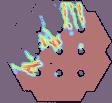
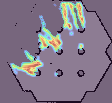
ajout robots sur carte

diff --git a/main.py b/main.py
@@ -3,9 +3,8 @@ import cv2
 import os
 from typing import List, Tuple
 
-
 class DetectionPointsInteretsUltraUltra:
-    """Détection ultra-optimisée des points d'intérêt + enregistrement de chaque étape."""
+    """Détection ultra-optimisée des points d'intérêt + visualisation avec robots et trajets."""
 
     def __init__(self, path: str, top_k: int = 50, dossier_debug: str = "debug"):
         self.top_k = top_k
@@ -15,40 +14,32 @@ class DetectionPointsInteretsUltraUltra:
         # Créer dossier debug
         os.makedirs(dossier_debug, exist_ok=True)
 
-        # Étape 1 : lecture
+        # Étapes principales
         self.img = self.lecture_image(path)
-
-        # Étape 2 : métriques robot
         self.metriques_physiques()
-
-        # Étape 3 : mapping valeurs
         img_travail = self.transformer_valeurs(self.img)
         self.save(img_travail, "02_image_transformee.png")
-
-        # Étape 4 : nettoyage
         img_nettoyee = self.suppression_pixels_inutilisables(img_travail)
-
-        # Étape 5 : lissage + normalisation finale
         self.heatmap_normalisee = self.lissage_normalisation(img_nettoyee)
         self.save(self.heatmap_normalisee, "07_heatmap_normalisee.png")
 
-
+        # Superposition heatmap
         self.enregistrer_heatmap_superposee()
 
-        # Étape 6 : top-K
+        # Top-K points d’intérêt
         self.points_interet = self.topk_points_interet(self.heatmap_normalisee, top_k=self.top_k)
 
+        # Heatmap overlay avec points
         self.enregistrer_heatmap_overlay_avec_points()
 
     # ---------- Utilitaires ----------
     def save(self, img, filename):
-        """Enregistre une image float32 en PNG avec conversion automatique."""
+        """Enregistre une image float32 en PNG."""
         out = img.copy()
         out[out <= self.valeur_pixel_supprime] = 0.0
         out = (out - out.min()) / (out.max() - out.min() + 1e-9)
         out8 = (out * 255).astype(np.uint8)
         cv2.imwrite(os.path.join(self.dossier_debug, filename), out8)
-
 
     # ---------- Étape 1 ----------
     def lecture_image(self, path: str) -> np.ndarray:
@@ -73,7 +64,6 @@ class DetectionPointsInteretsUltraUltra:
         self.pixel_occupe = 0
         self.pixel_connu = 254
         self.pixel_inconnu = 205
-
         img_f[img == self.pixel_occupe] = -100
         img_f[img == self.pixel_connu] = 0
         img_f[img == self.pixel_inconnu] = 100
@@ -81,16 +71,16 @@ class DetectionPointsInteretsUltraUltra:
 
     # ---------- Étape 4 ----------
     def suppression_pixels_inutilisables(self, img: np.ndarray) -> np.ndarray:
-        img_out = img
+        img_out = img.copy()
 
-        # 4.1 suppression autour obstacles
+        # Supprimer autour des obstacles
         kernel = self.matrice_robot / np.prod(self.matrice_robot.shape)
         mask_occ = (img_out == -100).astype(np.float32)
         zones = cv2.filter2D(mask_occ, -1, kernel, borderType=cv2.BORDER_CONSTANT)
         img_out[zones != 0] = self.valeur_pixel_supprime
         self.save(img_out, "03_suppression_autour_obstacles.png")
 
-        # 4.2 suppression inconnus isolés
+        # Filtrage des inconnus isolés
         mask_known = (img_out == 0).astype(np.float32)
         filtre_voisins = np.array([
             [0.5,0.5,0.5,0.5,0.5],
@@ -99,20 +89,18 @@ class DetectionPointsInteretsUltraUltra:
             [0.5,1.0,1.0,1.0,0.5],
             [0.5,0.5,0.5,0.5,0.5]
         ], dtype=np.float32)
-
         voisins = cv2.filter2D(mask_known, -1, filtre_voisins, borderType=cv2.BORDER_CONSTANT)
         mask_valid = voisins > 1.0
         img_out[~mask_valid] = self.valeur_pixel_supprime
         img_out[mask_valid] *= voisins[mask_valid]
-
         self.save(img_out, "04_inconnus_filtrage_voisinage.png")
         return img_out
 
     # ---------- Étape 5 ----------
     def lissage_normalisation(self, img: np.ndarray) -> np.ndarray:
         mask_suppr = img <= self.valeur_pixel_supprime
-
         img2 = img.copy()
+
         # 1er passage
         tmp = img2.copy()
         tmp[mask_suppr] = 0
@@ -127,139 +115,92 @@ class DetectionPointsInteretsUltraUltra:
         img2[mask_suppr] = self.valeur_pixel_supprime
         self.save(img2, "06_lissage_pass2.png")
 
-        # normalisation finale
+        # Normalisation finale
         valid = img2[~mask_suppr]
         if valid.size == 0:
             return np.zeros_like(img2)
         mn, mx = valid.min(), valid.max()
-        if mx == mn:
-            norm = np.zeros_like(img2)
-        else:
-            norm = (img2 - mn) / (mx - mn)
-
+        norm = np.zeros_like(img2) if mx == mn else (img2 - mn) / (mx - mn)
         norm[mask_suppr] = self.valeur_pixel_supprime
         return norm
 
     # ---------- Étape 6 ----------
     def topk_points_interet(self, heatmap: np.ndarray, top_k: int) -> List[Tuple[int,int,float]]:
-        """
-        Retourne 1 point d'intérêt par zone :
-        - segmentation connected components
-        - pour chaque composante, on prend le pixel de score maximum
-        - on trie les points par score
-        - on applique top_k facultatif
-        """
-        # Mask des zones valides
+        """Retourne 1 point par zone connectée, tri par score."""
         mask = heatmap > 0
-
-        # 1⃣ Segmentation en zones connectées
         num_labels, labels = cv2.connectedComponents(mask.astype(np.uint8))
-
         points = []
 
-        # 2⃣ Pour chaque zone (sauf 0 : fond)
         for lab in range(1, num_labels):
             ys, xs = np.where(labels == lab)
             if len(xs) == 0:
                 continue
-
-            # Scores de la zone
             scores = heatmap[ys, xs]
-
-            # Best pixel of the zone
             idx_best = np.argmax(scores)
-            best_x = xs[idx_best]
-            best_y = ys[idx_best]
-            best_score = scores[idx_best]
+            points.append((xs[idx_best], ys[idx_best], float(scores[idx_best])))
 
-            points.append((best_x, best_y, float(best_score)))
-
-        # 3⃣ Tri décroissant
         points.sort(key=lambda p: -p[2])
+        return points[:top_k] if len(points) > top_k else points
 
-        # 4⃣ Optionnel : top-K
-        if len(points) > top_k:
-            points = points[:top_k]
-
-        return points
-
-    
+    # ---------- Visualisation ----------
     def enregistrer_heatmap_superposee(self, alpha=0.55, colormap=cv2.COLORMAP_TURBO):
-
-        # ---- Charger l'image originale ----
-        img_orig = self.img
-
-        # Convertir en BGR pour superposition
-        img_orig_color = cv2.cvtColor(img_orig, cv2.COLOR_GRAY2BGR)
-
-        # ---- Préparer la heatmap ----
-        hm = self.heatmap_normalisee.copy()
-        hm[hm == 0.0] = 1
-        hm[hm == self.valeur_pixel_supprime] = 0.0  # pixels invalides à noir
-
-        # Convertir → 8 bits
-        hm8 = (hm * 255).clip(0, 255).astype(np.uint8)
-
-        # Appliquer la color map (BGR)
+        img_orig_color = cv2.cvtColor(self.img, cv2.COLOR_GRAY2BGR)
+        hm = np.clip(self.heatmap_normalisee, 0, 1)
+        hm8 = (hm*255).astype(np.uint8)
         hm_color = cv2.applyColorMap(hm8, colormap)
+        overlay = cv2.addWeighted(hm_color, alpha, img_orig_color, 1-alpha, 0)
+        cv2.imwrite(os.path.join(self.dossier_debug,"heatmap_overlay.png"), overlay)
+        print("[OK] Heatmap superposée enregistrée.")
 
-        # ---- Superposition ----
-        overlay = cv2.addWeighted(hm_color, alpha, img_orig_color, 1 - alpha, 0)
-        output = os.path.join(self.dossier_debug,"heatmap_overlay.png")
-        # ---- Sauvegarde ----
-        cv2.imwrite(output, overlay)
-        print(f"[OK] Heatmap superposée enregistrée : {output}")
-
-
-
-    def enregistrer_heatmap_overlay_avec_points(self,
-                                                alpha=0.55, colormap=cv2.COLORMAP_TURBO):
-        """
-        Version améliorée : heatmap colorisée + superposition sur l'image +
-        croix sur tous les points d'intérêt détectés.
-        """
-
-        output = "heatmap_overlay_points.png"
-
-        # ---- Charger l'image originale ----
-        img_orig = self.img
-        img_orig_color = cv2.cvtColor(img_orig, cv2.COLOR_GRAY2BGR)
-
-        # ---- Préparer la heatmap ----
-        hm = self.heatmap_normalisee.copy()
-        hm[hm == self.valeur_pixel_supprime] = 0.0
-        hm8 = (hm * 255).clip(0, 255).astype(np.uint8)
-
-        # ---- Colorisation ----
+    def enregistrer_heatmap_overlay_avec_points(self, alpha=0.55, colormap=cv2.COLORMAP_TURBO):
+        """Superposition heatmap + points d'intérêt."""
+        img_orig_color = cv2.cvtColor(self.img, cv2.COLOR_GRAY2BGR)
+        hm = np.clip(self.heatmap_normalisee, 0, 1)
+        hm8 = (hm*255).astype(np.uint8)
         hm_color = cv2.applyColorMap(hm8, colormap)
+        overlay = cv2.addWeighted(hm_color, alpha, img_orig_color, 1-alpha, 0)
 
-        # ---- Superposition ----
-        overlay = cv2.addWeighted(hm_color, alpha, img_orig_color, 1 - alpha, 0)
+        for (x, y, _) in self.points_interet:
+            cv2.drawMarker(overlay, (x, y), (255,255,255),
+                           markerType=cv2.MARKER_TILTED_CROSS, markerSize=8, thickness=2)
+            cv2.drawMarker(overlay, (x, y), (0,0,255),
+                           markerType=cv2.MARKER_TILTED_CROSS, markerSize=4, thickness=1)
 
-        # ---- Dessiner les points d'intérêt ----
-        for (x, y, score) in self.points_interet:
-            cv2.drawMarker(
-                overlay,
-                (x, y),
-                (0, 0, 0),                   # centre noir
-                markerType=cv2.MARKER_CROSS,
-                markerSize=12,
-                thickness=2,
-                line_type=cv2.LINE_AA
-            )
-            cv2.drawMarker(
-                overlay,
-                (x, y),
-                (0, 255, 0),                 # contour vert
-                markerType=cv2.MARKER_CROSS,
-                markerSize=8,
-                thickness=1,
-                line_type=cv2.LINE_AA
-            )
+        cv2.imwrite(os.path.join(self.dossier_debug,"heatmap_overlay_points.png"), overlay)
+        print("[OK] Overlay + points d'intérêt enregistrés.")
 
-        filepath = os.path.join(self.dossier_debug, output)
-        cv2.imwrite(filepath, overlay)
-        print(f"[OK] Overlay + points d'intérêt enregistrés : {filepath}")
+    def enregistrer_heatmap_overlay_points_robots(self, robots: List[Tuple[int,int]],
+                                                  targets: List[Tuple[int,int]],
+                                                  paths: List[List[Tuple[int,int]]],
+                                                  alpha=0.55, colormap=cv2.COLORMAP_TURBO):
+        """Heatmap + points d'intérêt + robots + trajets."""
+        img_orig_color = cv2.cvtColor(self.img, cv2.COLOR_GRAY2BGR)
+        hm = np.clip(self.heatmap_normalisee, 0, 1)
+        hm8 = (hm*255).astype(np.uint8)
+        hm_color = cv2.applyColorMap(hm8, colormap)
+        overlay = cv2.addWeighted(hm_color, alpha, img_orig_color, 1-alpha, 0)
+
+        # Points d'intérêt
+        for (x, y, _) in self.points_interet:
+            cv2.drawMarker(overlay, (x, y), (255,255,255),
+                           markerType=cv2.MARKER_TILTED_CROSS, markerSize=8, thickness=2)
+            cv2.drawMarker(overlay, (x, y), (0,0,255),
+                           markerType=cv2.MARKER_TILTED_CROSS, markerSize=4, thickness=1)
+
+        # Robots
+        for (rx, ry) in robots:
+            cv2.circle(overlay, (rx, ry), 5, (255,0,0), -1, lineType=cv2.LINE_AA)
+
+        # Trajectoires
+        for path in paths:
+            if len(path) < 2:
+                continue
+            for i in range(len(path)-1):
+                cv2.line(overlay, path[i], path[i+1], (0,255,0), 2, lineType=cv2.LINE_AA)
+
+        cv2.imwrite(os.path.join(self.dossier_debug,"heatmap_overlay_points_robots.png"), overlay)
+        print("[OK] Overlay + points + robots + trajets enregistrés.")
+
 
 # -------- Multi-robots simplifié --------
 class MultiRobotUltraUltra:
@@ -267,7 +208,7 @@ class MultiRobotUltraUltra:
         self.heatmap = heatmap
         self.robots = robots
 
-    def choose_targets(self, radius: int = 5):
+    def choose_targets(self, radius: int = 5) -> List[Tuple[int,int]]:
         targets = []
         for (rx, ry) in self.robots:
             x0, x1 = max(0, rx-radius), min(self.heatmap.shape[1], rx+radius+1)
@@ -284,6 +225,21 @@ class MultiRobotUltraUltra:
 # ---------------- Exemple ----------------
 if __name__ == "__main__":
     det = DetectionPointsInteretsUltraUltra("map.pgm", top_k=50)
-    robots = [(10,10), (50,50), (100,20)]
+    robots = [(67,60), (50,90), (95,70)]
     multi = MultiRobotUltraUltra(det.heatmap_normalisee, robots)
-    print("Cibles robots :", multi.choose_targets())
+    targets = multi.choose_targets(radius=5)
+
+    # Exemple de chemins (ici ligne droite simple)
+    paths = []
+    for r, t in zip(robots, targets):
+        if t is None:
+            paths.append([])
+        else:
+            # Ligne droite simplifiée pour l'exemple
+            num_pts = 50
+            xs = np.linspace(r[0], t[0], num_pts, dtype=int)
+            ys = np.linspace(r[1], t[1], num_pts, dtype=int)
+            paths.append(list(zip(xs, ys)))
+
+    # Enregistrement final
+    det.enregistrer_heatmap_overlay_points_robots(robots, targets, paths)
